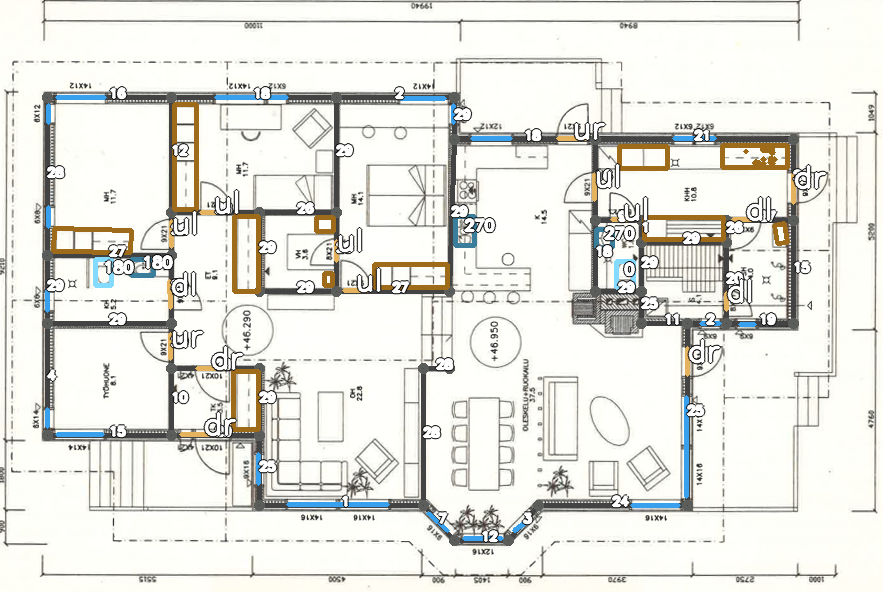
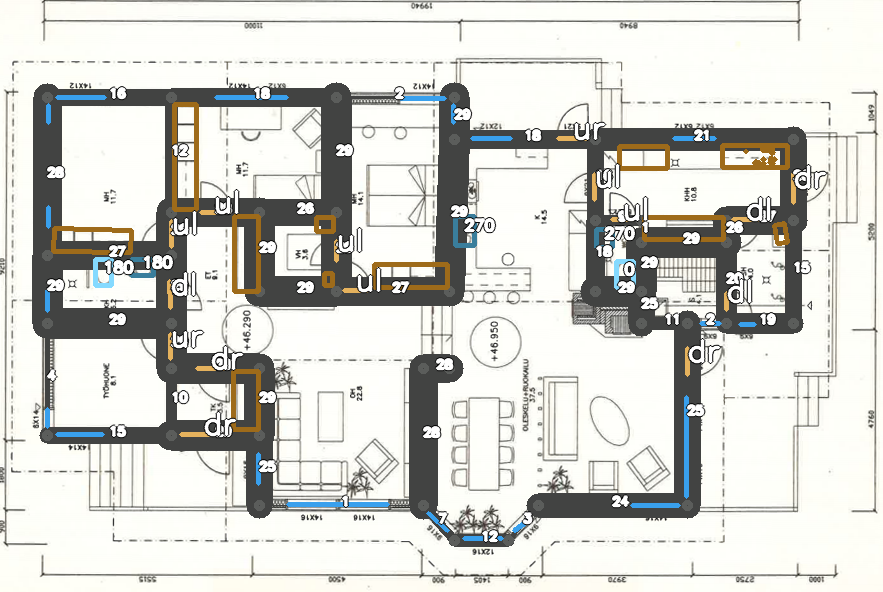
Fix wall thickness estimation

Changed region(s): [[0.0306, 0.1216, 0.9173, 0.8818], [0.4281, 0.5777, 0.581, 0.9426]]

diff --git a/Recognition/recognition.py b/Recognition/recognition.py
@@ -86,7 +86,7 @@ def show_results(image, results, output_name):
     # reconstr = np.full(image.shape, 255).astype(np.uint8)
     for wall in results['walls']:
         s, e = wall['points']
-        reconstr = cv2.line(reconstr, np.intp(s), np.intp(e), (66, 67, 66), 3)
+        reconstr = cv2.line(reconstr, np.intp(s), np.intp(e), (66, 67, 66), wall["width"])
         reconstr = cv2.circle(reconstr, np.intp(s), 3, (91, 93, 91), 3)
         reconstr = cv2.circle(reconstr, np.intp(e), 3, (91, 93, 91), 3)
 
@@ -179,10 +179,10 @@ def main(path, method, verbose=False, save_results=False):
 
     if method == 'residential':
         from residential import recognize
-        prediction = recognize(original, verbose)
+        prediction, segmentation = recognize(original, verbose)
     elif method == 'brute_force':
         from brute_force import recognize
-        prediction = recognize(original, verbose)
+        prediction, segmentation = recognize(original, verbose)
     elif method == 'r2v':
         from raster_to_vector import recognize
         prediction = recognize(path, verbose)
@@ -191,7 +191,8 @@ def main(path, method, verbose=False, save_results=False):
 
     # attach and calculate widths first because normalization might move walls
     walls = attach_openings(walls, doors + windows, verbose)
-    walls = calculate_wall_widths(walls, original, verbose)
+    if method != 'r2v':
+        walls = calculate_wall_widths(walls, segmentation, verbose)
 
     walls = normalize_wall_points(walls, 5)
 

diff --git a/Recognition/brute_force/recognize.py b/Recognition/brute_force/recognize.py
@@ -45,4 +45,4 @@ def recognize(image, verbose):
     bathtubs = tuple({'points': p, 'type': 'bathtub'} for p in pixels_to_bb(bathtubs_pixels))
 
     logger.info('Finished')
-    return {'walls': walls, 'doors': doors, 'windows': windows, 'symbols': (*closets, *toilets, *sinks, *bathtubs)}
+    return {'walls': walls, 'doors': doors, 'windows': windows, 'symbols': (*closets, *toilets, *sinks, *bathtubs)}, walls_closed

diff --git a/Recognition/residential/recognize.py b/Recognition/residential/recognize.py
@@ -50,4 +50,4 @@ def recognize(image, verbose):
     bathtubs = tuple({'points': p, 'type': 'bathtub'} for p in pixels_to_bb(bathtubs_pixels))
 
     logger.info('Finished')
-    return {'walls': walls, 'doors': doors, 'windows': windows, 'symbols': (*closets, *toilets, *sinks, *bathtubs)}
+    return {'walls': walls, 'doors': doors, 'windows': windows, 'symbols': (*closets, *toilets, *sinks, *bathtubs)}, walls_closed
